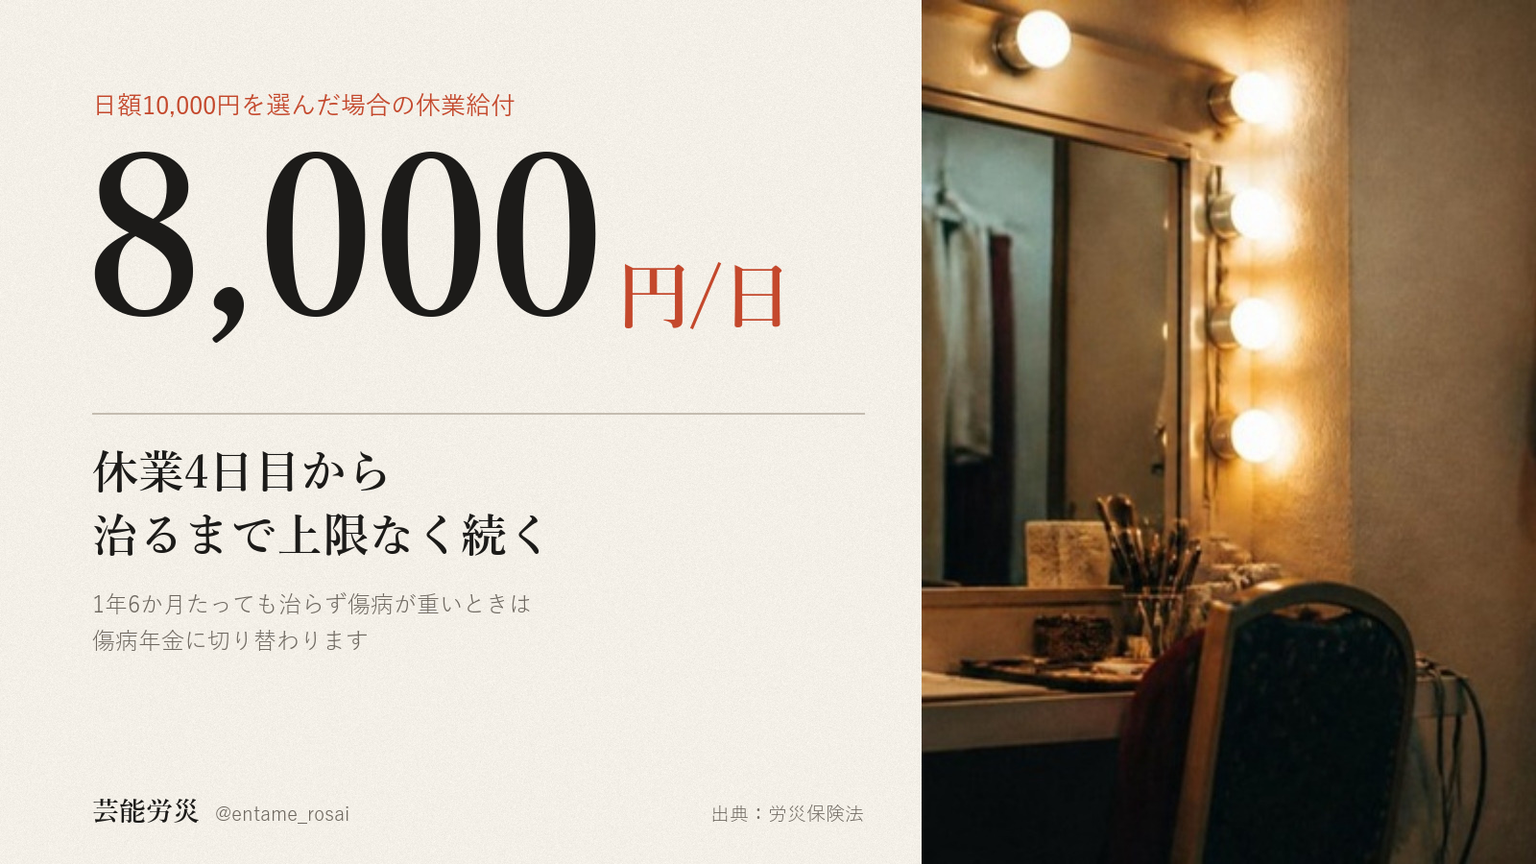
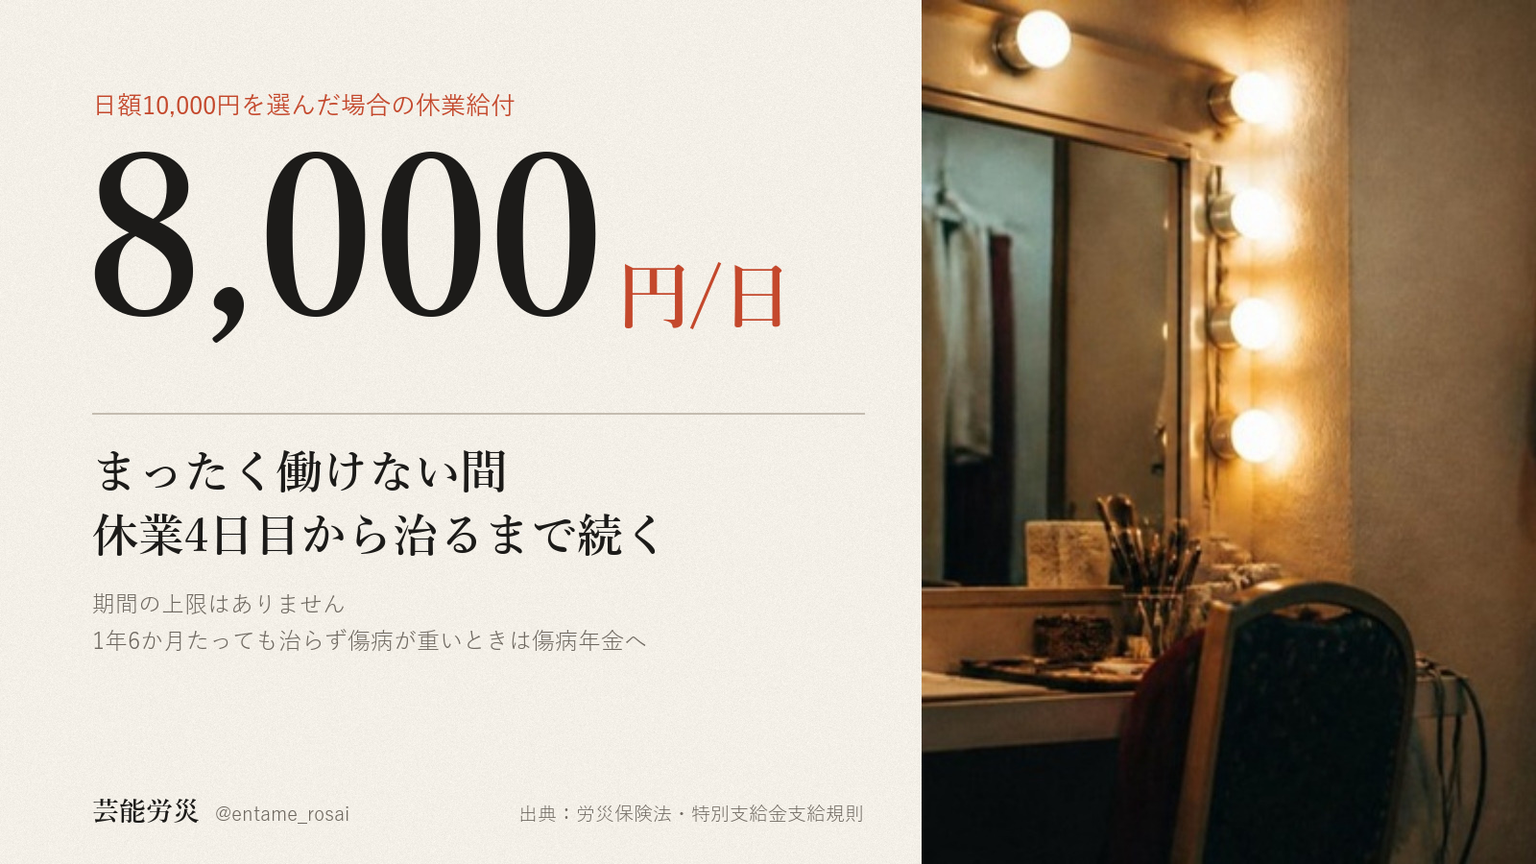
投稿デスク更新 2026-10-31

Changed region(s): [[0.0625, 0.4978, 0.4062, 0.6533], [0.0625, 0.6844, 0.4062, 0.7467], [0.3438, 0.9333, 0.5625, 0.9644]]

diff --git a/index.html b/index.html
@@ -351,7 +351,7 @@ dialog img{width:100%;height:auto;border-radius:18px;display:block}
 <div class="toast" id="toast">コピーしました</div>
 <dialog id="zoom"><img alt=""></dialog>
 
-<script id="desk-data" type="application/json">{"account":"@entame_rosai","days":[{"date":"2026-10-31","label":"10月31日（土）　今日","items":[{"key":"x","date":"2026-10-22","label":"X（@entame_rosai）","account":"@entame_rosai","text":"給付基礎日額は3,500円から25,000円の16段階から、自分で選べます。けがで働けない日の給付は選んだ日額の80%（休業4日目から）。日額10,000円なら1日8,000円で、費用は月1,600円＋初月に入会事務手数料2,000円。（厚労省・当団体申込フォーム）","chars":133,"lines":1,"hashtags":0,"limit":140,"status":"（台帳に記載なし）","url":"","images":[{"name":"x_image.png","path":"assets/2026-10-22/x_image/x_image.png"}],"alt":"右半分は、暗い舞台に紫色のスポットライトが3つ斜めに差し込み、床に光の輪が落ちている写真。左半分は生成り色の紙の上に文字。「給付基礎日額」「日額は 自分で選べる」「選べる幅 16段階」「いちばん低い日額 3,500円」「いちばん高い日額 25,000円」「働けない日の給付 日額の80%」「日額10,000円なら1日8,000円（休業4日目から）」「費用は月1,600円 初月のみ入会事務手数料2,000円」「芸能労災 @entame_rosai」「出典：厚労省／当団体申込フォーム」","check":{"errors":[],"warns":[]},"made":"2026-10-22","slot":"2026-10-31"}]},{"date":"2026-11-01","label":"11月1日（日）　投稿予定","items":[{"key":"x","date":"2026-10-23","label":"X（@entame_rosai）","account":"@entame_rosai","text":"労災保険には、介護の給付もあります。障がいや傷病の年金が1級、または2級の一部で、いま介護を受けている人に支給されます。家族が介護している場合も対象です。入院中や、特別養護老人ホームなどに入所中は対象外です。特別加入した表現者も受けられます。（労災保険法 第19条の2）","chars":135,"lines":1,"hashtags":0,"limit":140,"status":"（台帳に記載なし）","url":"","images":[{"name":"x_image.png","path":"assets/2026-10-23/x_image/x_image.png"}],"alt":"右半分はライブハウスの客席後方で、音響担当の人が両手でミキサー卓のつまみを操作している写真。奥のステージではギターを持った演者がスポットライトを浴び、観客が立って見ている。左半分は紙の地に文字。「労災保険の給付」「介護の給付もあります」「障がいや傷病の年金が1級または2級の一部で、いま介護を受けている人に支給されます」「家族が介護している場合も対象」「入院中や特別養護老人ホームなどに入所中は対象外」「芸能労災 @entame_rosai」「出典：労災保険法 第19条の2」","check":{"errors":[],"warns":[]},"made":"2026-10-23","slot":"2026-11-01"}]},{"date":"2026-11-02","label":"11月2日（月）　投稿予定","items":[{"key":"x","date":"2026-10-25","label":"X（@entame_rosai）","account":"@entame_rosai","text":"労災の特別加入には、けがが治ったあとも障がいが残ったときの給付があります。等級は1級から14級で、1〜7級は年金、8〜14級は一時金です。給付基礎日額10,000円を選んだ場合、1級は年313万円、7級は年131万円、14級は一時金56万円です。（労災保険法 別表第1・第2）","chars":138,"lines":1,"hashtags":0,"limit":140,"status":"（台帳に記載なし）","url":"","images":[{"name":"x_image.png","path":"assets/2026-10-25/x_image/x_image.png"}],"alt":"夕方の光が差し込む、鏡とバーのあるダンススタジオの写真。左側に表。労災保険の給付。障がいが残ったとき。等級、日額10,000円の場合。1級（年金）年313万円。7級（年金）年131万円。14級（一時金）56万円。1級から7級は年金、8級から14級は一時金。金額は選んだ給付基礎日額で決まります。芸能労災 @entame_rosai。出典：労災保険法 別表第1・第2","check":{"errors":[],"warns":[]},"made":"2026-10-25","slot":"2026-11-02"}]},{"date":"2026-11-03","label":"11月3日（火）　投稿予定","items":[{"key":"x","date":"2026-10-26","label":"X（@entame_rosai）","account":"@entame_rosai","text":"労災の特別加入の保険料は、確定申告で社会保険料控除の対象です。日額10,000円を選んだ場合、月の支払い1,600円のうち保険料912円の部分です（ほかに入会時のみ2,000円）。けがで受け取る給付は非課税です。（所得税法第74条・労災保険法第12条の6）","chars":128,"lines":1,"hashtags":0,"limit":140,"status":"（台帳に記載なし）","url":"","images":[{"name":"x_image.png","path":"assets/2026-10-26/x_image/x_image.png"}],"alt":"右側は、薄暗い稽古場の床に座り、足首にテーピングを巻いているダンサーの後ろ姿の写真。左側の紙面に文字。「労災の特別加入と税金」「払うときも受け取るときも」。左の列「毎月の支払い　月1,600円　うち保険料912円が　控除の対象」。右の列「受け取る給付　けがの補償　所得税は　非課税」。注記「日額10,000円を選んだ場合　ほかに入会時のみ2,000円」。出典「所得税法第74条・労災保険法第12条の6」。芸能労災 @entame_rosai","check":{"errors":[],"warns":[]},"made":"2026-10-26","slot":"2026-11-03"}]},{"date":"2026-11-04","label":"11月4日（水）　投稿予定","items":[{"key":"x","date":"2026-10-27","label":"X（@entame_rosai）","account":"@entame_rosai","text":"仕事中のけがの治療費は、労災の特別加入なら療養（補償）給付で出ます。労災指定の医療機関なら窓口での負担はなく、指定外でいったん払った分もあとで請求できます。治るまで、期間や金額の上限はありません。通院も入院も、薬代も対象です。（労災保険法第13条・厚生労働省）","chars":130,"lines":1,"hashtags":0,"limit":140,"status":"（台帳に記載なし）","url":"","images":[{"name":"x_image.png","path":"assets/2026-10-27/x_image/x_image.png"}],"alt":"右半分は、軍手をはめた両手が黒い舞台の床にテープを貼っている写真。左半分は生成りの紙の上に文字。「労災保険の給付」「治療費に上限はない」「仕事中のけがの治療は　治るまで療養給付で　通院も入院も薬代も対象」「労災指定の医療機関なら窓口負担なし　指定外で払った分はあとで請求できます」「出典：労災保険法第13条・厚生労働省」「芸能労災 @entame_rosai」","check":{"errors":[],"warns":[]},"made":"2026-10-27","slot":"2026-11-04"}]},{"date":"2026-11-05","label":"11月5日（木）　投稿予定","items":[{"key":"x","date":"2026-10-29","label":"X（@entame_rosai）","account":"@entame_rosai","text":"労災の特別加入で受け取る保険給付には、所得税も住民税もかかりません。けがで休んだ日の休業給付も、治療の療養給付も非課税です。確定申告で収入に足す必要はありません。（労災保険法第12条の6）","chars":94,"lines":1,"hashtags":0,"limit":140,"status":"（台帳に記載なし）","url":"","images":[{"name":"x_image.png","path":"assets/2026-10-29/x_image/x_image.png"}],"alt":"左は生成りの紙の上に文字、右は暗がりの照明バーに並ぶ4灯のスポットライトがスモークの中で光る写真。文字は「労災保険の給付　受け取る保険給付に税金はかからない　受け取る保険給付／税金　休業給付　非課税　療養給付　非課税　所得税も住民税もかかりません　確定申告で収入に足す必要はありません　芸能労災 @entame_rosai　出典：労災保険法第12条の6」","check":{"errors":[],"warns":[]},"made":"2026-10-29","slot":"2026-11-05"}]},{"date":"2026-11-06","label":"11月6日（金）　投稿予定","items":[{"key":"x","date":"2026-10-30","label":"X（@entame_rosai）","account":"@entame_rosai","text":"労災の特別加入は、何月から入るかと何か月入るかを、申込のときに選べます。10月30日の時点で、開始月は2026年11月から2027年3月までの中から選べます。迷っている方は、プロフィール欄のサイトから相談できます。（当団体申込フォーム）","chars":118,"lines":1,"hashtags":0,"limit":140,"status":"（台帳に記載なし）","url":"","images":[{"name":"x_image.png","path":"assets/2026-10-30/x_image/x_image.png"}],"alt":"右半分は、木の机に開いた冊子と鉛筆、奥に折りたたみ椅子と窓がある部屋の写真。左半分の紙地に文字。「労災の特別加入」「入る月は申込のときに選べる」「開始月は2026年11月から2027年3月までの中から　加入期間は1か月から選べます」「10月30日時点の申込フォーム　迷っている方はプロフィール欄のサイトから相談できます」「出典：当団体申込フォーム」「芸能労災 @entame_rosai」","check":{"errors":[],"warns":[]},"made":"2026-10-30","slot":"2026-11-06"}]},{"date":"2026-11-07","label":"11月7日（土）　投稿予定","items":[{"key":"x","date":"2026-10-31","label":"X（@entame_rosai）","account":"@entame_rosai","text":"労災の特別加入の休業給付には、何か月までという上限がありません。仕事中のけがでまったく働けない間、休業4日目から治るまで続きます。日額10,000円を選んだ場合は1日8,000円。1年6か月たっても治らず傷病が重いときは、傷病年金に切り替わります。（労災保険法）","chars":131,"lines":1,"hashtags":0,"limit":140,"status":"（台帳に記載なし）","url":"","images":[{"name":"x_image.png","path":"assets/2026-10-31/x_image/x_image.png"}],"alt":"右側に、電球の並ぶ鏡と化粧筆、背もたれ付きの椅子がある無人の楽屋の写真。左側の紙の地に文字。日額10,000円を選んだ場合の休業給付　8,000円/日　休業4日目から治るまで上限なく続く　1年6か月たっても治らず傷病が重いときは傷病年金に切り替わります　出典：労災保険法　芸能労災 @entame_rosai","check":{"errors":[],"warns":[]},"made":"2026-10-31","slot":"2026-11-07"}]}],"todo":[{"due":"今日","who":"作業者","title":"X（@entame_rosai）の今日の投稿","detail":"画像1枚を添付 → 代替テキストを入れる → 本文を貼る、の順。代替テキストは直近の投稿で入っていません。X は投稿後に足せません。","cid":"c-2026-10-22-x"},{"due":"未公開のまま","who":"矢部さん","title":"note の記事を公開（09/18作成）","detail":"このデスクには載っていません（note は矢部さんの手元の下書き）。公開するときは見出し画像を必ず設定。","cid":""},{"due":"未公開のまま","who":"矢部さん","title":"note の記事を公開（10/09作成）","detail":"このデスクには載っていません（note は矢部さんの手元の下書き）。公開するときは見出し画像を必ず設定。","cid":""},{"due":"投稿のたび","who":"作業者","title":"投稿URLと名前を、そのカードの欄に保存","detail":"記録が集まらないと、何が出たかを後から確かめられません。","cid":""}],"builtAt":"2026-10-31 08:11","today":"2026-10-31","followers":{"date":"10-13","x":5,"ig":21,"note":0},"hero":"assets/hero.jpg","endpoint":"https://script.google.com/macros/s/AKfycbxhxM75PszpPOX_HDJ4yuBmQSqu1b7CXq2sbCxlqTZ_TyF8hROH2MyKnYNU11avb8UQCA/exec"}</script>
+<script id="desk-data" type="application/json">{"account":"@entame_rosai","days":[{"date":"2026-10-31","label":"10月31日（土）　今日","items":[{"key":"x","date":"2026-10-22","label":"X（@entame_rosai）","account":"@entame_rosai","text":"給付基礎日額は3,500円から25,000円の16段階から、自分で選べます。けがで働けない日の給付は選んだ日額の80%（休業4日目から）。日額10,000円なら1日8,000円で、費用は月1,600円＋初月に入会事務手数料2,000円。（厚労省・当団体申込フォーム）","chars":133,"lines":1,"hashtags":0,"limit":140,"status":"（台帳に記載なし）","url":"","images":[{"name":"x_image.png","path":"assets/2026-10-22/x_image/x_image.png"}],"alt":"右半分は、暗い舞台に紫色のスポットライトが3つ斜めに差し込み、床に光の輪が落ちている写真。左半分は生成り色の紙の上に文字。「給付基礎日額」「日額は 自分で選べる」「選べる幅 16段階」「いちばん低い日額 3,500円」「いちばん高い日額 25,000円」「働けない日の給付 日額の80%」「日額10,000円なら1日8,000円（休業4日目から）」「費用は月1,600円 初月のみ入会事務手数料2,000円」「芸能労災 @entame_rosai」「出典：厚労省／当団体申込フォーム」","check":{"errors":[],"warns":[]},"made":"2026-10-22","slot":"2026-10-31"}]},{"date":"2026-11-01","label":"11月1日（日）　投稿予定","items":[{"key":"x","date":"2026-10-23","label":"X（@entame_rosai）","account":"@entame_rosai","text":"労災保険には、介護の給付もあります。障がいや傷病の年金が1級、または2級の一部で、いま介護を受けている人に支給されます。家族が介護している場合も対象です。入院中や、特別養護老人ホームなどに入所中は対象外です。特別加入した表現者も受けられます。（労災保険法 第19条の2）","chars":135,"lines":1,"hashtags":0,"limit":140,"status":"（台帳に記載なし）","url":"","images":[{"name":"x_image.png","path":"assets/2026-10-23/x_image/x_image.png"}],"alt":"右半分はライブハウスの客席後方で、音響担当の人が両手でミキサー卓のつまみを操作している写真。奥のステージではギターを持った演者がスポットライトを浴び、観客が立って見ている。左半分は紙の地に文字。「労災保険の給付」「介護の給付もあります」「障がいや傷病の年金が1級または2級の一部で、いま介護を受けている人に支給されます」「家族が介護している場合も対象」「入院中や特別養護老人ホームなどに入所中は対象外」「芸能労災 @entame_rosai」「出典：労災保険法 第19条の2」","check":{"errors":[],"warns":[]},"made":"2026-10-23","slot":"2026-11-01"}]},{"date":"2026-11-02","label":"11月2日（月）　投稿予定","items":[{"key":"x","date":"2026-10-25","label":"X（@entame_rosai）","account":"@entame_rosai","text":"労災の特別加入には、けがが治ったあとも障がいが残ったときの給付があります。等級は1級から14級で、1〜7級は年金、8〜14級は一時金です。給付基礎日額10,000円を選んだ場合、1級は年313万円、7級は年131万円、14級は一時金56万円です。（労災保険法 別表第1・第2）","chars":138,"lines":1,"hashtags":0,"limit":140,"status":"（台帳に記載なし）","url":"","images":[{"name":"x_image.png","path":"assets/2026-10-25/x_image/x_image.png"}],"alt":"夕方の光が差し込む、鏡とバーのあるダンススタジオの写真。左側に表。労災保険の給付。障がいが残ったとき。等級、日額10,000円の場合。1級（年金）年313万円。7級（年金）年131万円。14級（一時金）56万円。1級から7級は年金、8級から14級は一時金。金額は選んだ給付基礎日額で決まります。芸能労災 @entame_rosai。出典：労災保険法 別表第1・第2","check":{"errors":[],"warns":[]},"made":"2026-10-25","slot":"2026-11-02"}]},{"date":"2026-11-03","label":"11月3日（火）　投稿予定","items":[{"key":"x","date":"2026-10-26","label":"X（@entame_rosai）","account":"@entame_rosai","text":"労災の特別加入の保険料は、確定申告で社会保険料控除の対象です。日額10,000円を選んだ場合、月の支払い1,600円のうち保険料912円の部分です（ほかに入会時のみ2,000円）。けがで受け取る給付は非課税です。（所得税法第74条・労災保険法第12条の6）","chars":128,"lines":1,"hashtags":0,"limit":140,"status":"（台帳に記載なし）","url":"","images":[{"name":"x_image.png","path":"assets/2026-10-26/x_image/x_image.png"}],"alt":"右側は、薄暗い稽古場の床に座り、足首にテーピングを巻いているダンサーの後ろ姿の写真。左側の紙面に文字。「労災の特別加入と税金」「払うときも受け取るときも」。左の列「毎月の支払い　月1,600円　うち保険料912円が　控除の対象」。右の列「受け取る給付　けがの補償　所得税は　非課税」。注記「日額10,000円を選んだ場合　ほかに入会時のみ2,000円」。出典「所得税法第74条・労災保険法第12条の6」。芸能労災 @entame_rosai","check":{"errors":[],"warns":[]},"made":"2026-10-26","slot":"2026-11-03"}]},{"date":"2026-11-04","label":"11月4日（水）　投稿予定","items":[{"key":"x","date":"2026-10-27","label":"X（@entame_rosai）","account":"@entame_rosai","text":"仕事中のけがの治療費は、労災の特別加入なら療養（補償）給付で出ます。労災指定の医療機関なら窓口での負担はなく、指定外でいったん払った分もあとで請求できます。治るまで、期間や金額の上限はありません。通院も入院も、薬代も対象です。（労災保険法第13条・厚生労働省）","chars":130,"lines":1,"hashtags":0,"limit":140,"status":"（台帳に記載なし）","url":"","images":[{"name":"x_image.png","path":"assets/2026-10-27/x_image/x_image.png"}],"alt":"右半分は、軍手をはめた両手が黒い舞台の床にテープを貼っている写真。左半分は生成りの紙の上に文字。「労災保険の給付」「治療費に上限はない」「仕事中のけがの治療は　治るまで療養給付で　通院も入院も薬代も対象」「労災指定の医療機関なら窓口負担なし　指定外で払った分はあとで請求できます」「出典：労災保険法第13条・厚生労働省」「芸能労災 @entame_rosai」","check":{"errors":[],"warns":[]},"made":"2026-10-27","slot":"2026-11-04"}]},{"date":"2026-11-05","label":"11月5日（木）　投稿予定","items":[{"key":"x","date":"2026-10-29","label":"X（@entame_rosai）","account":"@entame_rosai","text":"労災の特別加入で受け取る保険給付には、所得税も住民税もかかりません。けがで休んだ日の休業給付も、治療の療養給付も非課税です。確定申告で収入に足す必要はありません。（労災保険法第12条の6）","chars":94,"lines":1,"hashtags":0,"limit":140,"status":"（台帳に記載なし）","url":"","images":[{"name":"x_image.png","path":"assets/2026-10-29/x_image/x_image.png"}],"alt":"左は生成りの紙の上に文字、右は暗がりの照明バーに並ぶ4灯のスポットライトがスモークの中で光る写真。文字は「労災保険の給付　受け取る保険給付に税金はかからない　受け取る保険給付／税金　休業給付　非課税　療養給付　非課税　所得税も住民税もかかりません　確定申告で収入に足す必要はありません　芸能労災 @entame_rosai　出典：労災保険法第12条の6」","check":{"errors":[],"warns":[]},"made":"2026-10-29","slot":"2026-11-05"}]},{"date":"2026-11-06","label":"11月6日（金）　投稿予定","items":[{"key":"x","date":"2026-10-30","label":"X（@entame_rosai）","account":"@entame_rosai","text":"労災の特別加入は、何月から入るかと何か月入るかを、申込のときに選べます。10月30日の時点で、開始月は2026年11月から2027年3月までの中から選べます。迷っている方は、プロフィール欄のサイトから相談できます。（当団体申込フォーム）","chars":118,"lines":1,"hashtags":0,"limit":140,"status":"（台帳に記載なし）","url":"","images":[{"name":"x_image.png","path":"assets/2026-10-30/x_image/x_image.png"}],"alt":"右半分は、木の机に開いた冊子と鉛筆、奥に折りたたみ椅子と窓がある部屋の写真。左半分の紙地に文字。「労災の特別加入」「入る月は申込のときに選べる」「開始月は2026年11月から2027年3月までの中から　加入期間は1か月から選べます」「10月30日時点の申込フォーム　迷っている方はプロフィール欄のサイトから相談できます」「出典：当団体申込フォーム」「芸能労災 @entame_rosai」","check":{"errors":[],"warns":[]},"made":"2026-10-30","slot":"2026-11-06"}]},{"date":"2026-11-07","label":"11月7日（土）　投稿予定","items":[{"key":"x","date":"2026-10-31","label":"X（@entame_rosai）","account":"@entame_rosai","text":"労災の特別加入の休業給付には、期間の上限がありません。仕事中のけがでまったく働けない間、休業4日目から治るまで続きます。日額10,000円を選んだ場合は1日8,000円。1年6か月たっても治らず傷病が重いときは、傷病年金に切り替わります。（労災保険法・特別支給金支給規則）","chars":136,"lines":1,"hashtags":0,"limit":140,"status":"（台帳に記載なし）","url":"","images":[{"name":"x_image.png","path":"assets/2026-10-31/x_image/x_image.png"}],"alt":"右側に、電球の並ぶ鏡と化粧筆、背もたれ付きの椅子がある無人の楽屋の写真。左側の紙の地に文字。日額10,000円を選んだ場合の休業給付　8,000円/日　まったく働けない間　休業4日目から治るまで続く　期間の上限はありません　1年6か月たっても治らず傷病が重いときは傷病年金へ　出典：労災保険法・特別支給金支給規則　芸能労災 @entame_rosai","check":{"errors":[],"warns":[]},"made":"2026-10-31","slot":"2026-11-07"}]}],"todo":[{"due":"今日","who":"作業者","title":"X（@entame_rosai）の今日の投稿","detail":"画像1枚を添付 → 代替テキストを入れる → 本文を貼る、の順。代替テキストは直近の投稿で入っていません。X は投稿後に足せません。","cid":"c-2026-10-22-x"},{"due":"未公開のまま","who":"矢部さん","title":"note の記事を公開（09/18作成）","detail":"このデスクには載っていません（note は矢部さんの手元の下書き）。公開するときは見出し画像を必ず設定。","cid":""},{"due":"未公開のまま","who":"矢部さん","title":"note の記事を公開（10/09作成）","detail":"このデスクには載っていません（note は矢部さんの手元の下書き）。公開するときは見出し画像を必ず設定。","cid":""},{"due":"投稿のたび","who":"作業者","title":"投稿URLと名前を、そのカードの欄に保存","detail":"記録が集まらないと、何が出たかを後から確かめられません。","cid":""}],"builtAt":"2026-10-31 08:18","today":"2026-10-31","followers":{"date":"10-13","x":5,"ig":21,"note":0},"hero":"assets/hero.jpg","endpoint":"https://script.google.com/macros/s/AKfycbxhxM75PszpPOX_HDJ4yuBmQSqu1b7CXq2sbCxlqTZ_TyF8hROH2MyKnYNU11avb8UQCA/exec"}</script>
 <script>
 (function(){
   var DATA = JSON.parse(document.getElementById('desk-data').textContent);
